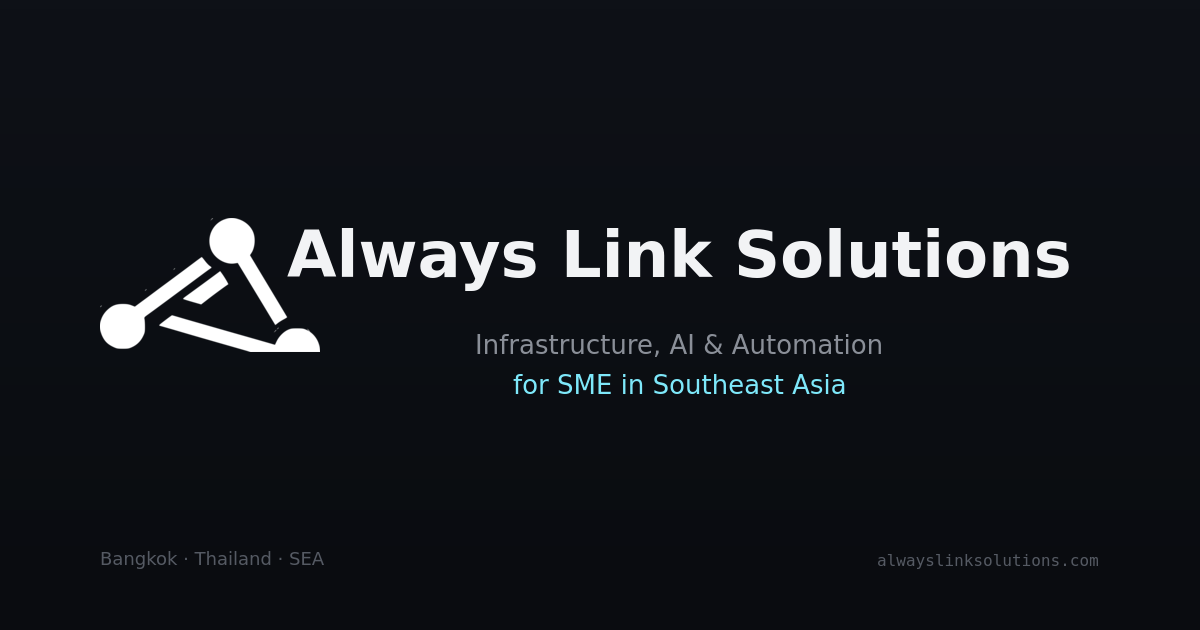
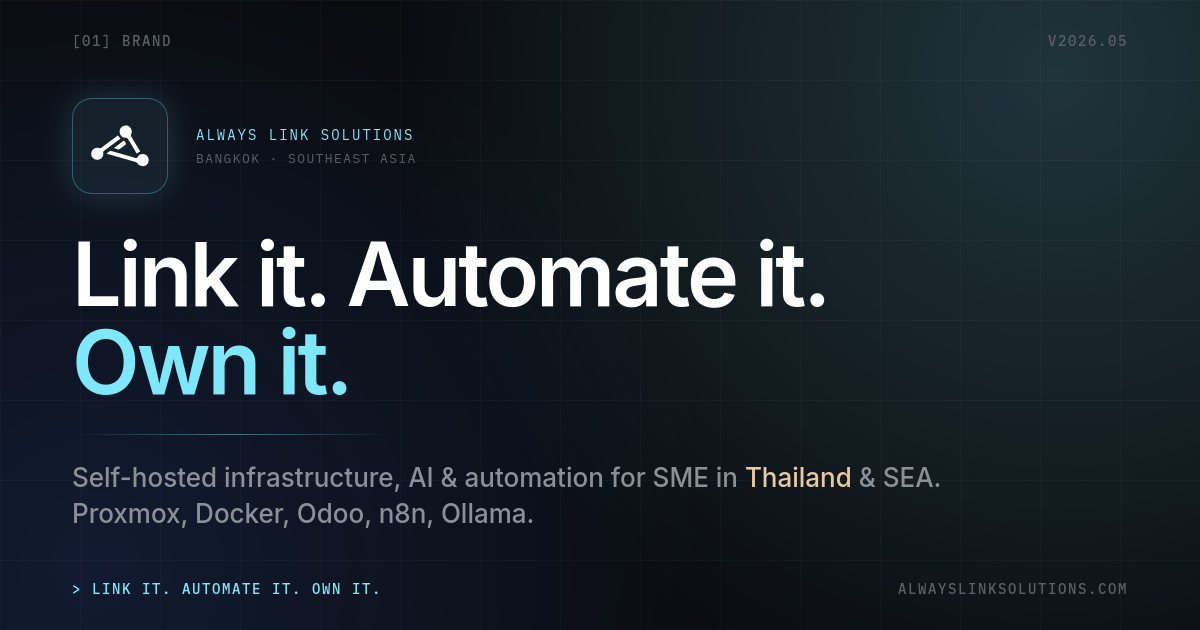
feat(landing): regenerate og-image.png with dark-glass brand kit
- og-template.html: 1200x630 source for the OG card. Renders the ALS
  brand mark in a cyan-glow glass tile, the "Link it. Automate it.
  Own it." headline (Inter 88px, cyan accent), and a one-line subtag
  with Thailand picked out in warm.
- og-image.png: regenerated from the template via headless Firefox.
  Replaces the previous generic preview.

Re-render with:
  firefox --headless --no-remote --profile $(mktemp -d) \
    --window-size=1200,630 --screenshot=og-image.png \
    http://127.0.0.1:PORT/og-template.html

Note: WhatsApp/Slack/Twitter cache OG images aggressively; new card
shows up after ~24h or via their own debugger tools.

diff --git a/web/landing/og-template.html b/web/landing/og-template.html
@@ -1,0 +1,135 @@
+<!DOCTYPE html>
+<html lang="en">
+<head>
+<meta charset="utf-8">
+<title>OG card</title>
+<link rel="preconnect" href="https://fonts.googleapis.com">
+<link rel="preconnect" href="https://fonts.gstatic.com" crossorigin>
+<link href="https://fonts.googleapis.com/css2?family=Inter:wght@500;600;700&family=IBM+Plex+Mono:wght@400;500&display=swap" rel="stylesheet">
+<style>
+* { margin: 0; padding: 0; box-sizing: border-box; }
+html, body { width: 1200px; height: 630px; overflow: hidden; background: #0A0C10; font-family: 'Inter', system-ui, sans-serif; color: #F2F3F5; }
+
+body {
+  background:
+    radial-gradient(circle at 88% 12%, rgba(126,232,250,0.18), transparent 55%),
+    radial-gradient(circle at 8% 90%, rgba(58,111,248,0.14), transparent 50%),
+    #0A0C10;
+  position: relative;
+  display: grid;
+  grid-template-rows: 1fr auto;
+  padding: 56px 72px;
+}
+
+/* faint grid */
+body::before {
+  content: '';
+  position: absolute;
+  inset: 0;
+  background-image:
+    linear-gradient(rgba(255,255,255,0.025) 1px, transparent 1px),
+    linear-gradient(90deg, rgba(255,255,255,0.025) 1px, transparent 1px);
+  background-size: 80px 80px;
+  pointer-events: none;
+}
+
+/* corner labels */
+.corner {
+  position: absolute;
+  font-family: 'IBM Plex Mono', ui-monospace, monospace;
+  font-size: 14px;
+  font-weight: 500;
+  letter-spacing: 1.6px;
+  text-transform: uppercase;
+  color: #5A6068;
+}
+.tl { top: 32px; left: 72px; }
+.tr { top: 32px; right: 72px; }
+.bl { bottom: 32px; left: 72px; color: #7EE8FA; }
+.br { bottom: 32px; right: 72px; }
+
+main {
+  display: flex;
+  flex-direction: column;
+  justify-content: center;
+  align-items: flex-start;
+  position: relative;
+  z-index: 1;
+}
+
+.brand-row {
+  display: flex;
+  align-items: center;
+  gap: 28px;
+  margin-bottom: 36px;
+}
+.brand-mark {
+  width: 96px;
+  height: 96px;
+  display: grid;
+  place-items: center;
+  border: 1px solid rgba(126,232,250,0.30);
+  border-radius: 20px;
+  background: rgba(126,232,250,0.08);
+  box-shadow: 0 0 32px rgba(126,232,250,0.18);
+}
+.brand-mark svg { width: 64px; height: 64px; }
+
+h1 {
+  font-size: 88px;
+  font-weight: 600;
+  line-height: 1.0;
+  letter-spacing: -3px;
+  color: #FFFFFF;
+  max-width: 980px;
+}
+h1 .accent { color: #7EE8FA; }
+
+.lead {
+  margin-top: 24px;
+  font-size: 26px;
+  line-height: 1.4;
+  color: #8A8F98;
+  max-width: 880px;
+  font-weight: 400;
+}
+.lead strong { color: #E8C9A0; font-weight: 500; }
+
+.divider {
+  height: 1px;
+  background: linear-gradient(90deg, transparent, rgba(126,232,250,0.45), transparent);
+  margin-top: 28px;
+  width: 320px;
+}
+</style>
+</head>
+<body>
+  <span class="corner tl">[01] BRAND</span>
+  <span class="corner tr">v2026.05</span>
+  <span class="corner bl">&gt; LINK IT. AUTOMATE IT. OWN IT.</span>
+  <span class="corner br">alwayslinksolutions.com</span>
+
+  <main>
+    <div class="brand-row">
+      <div class="brand-mark">
+        <svg viewBox="373 155.89 282.04 204.99" xmlns="http://www.w3.org/2000/svg">
+          <path fill="#FFFFFF" d="M596.174805,340.900635C594.867676,339.580017 593.393188,338.665741 592.886963,337.372467C590.401367,331.022552 584.793518,329.791321 579.124268,328.180603C540.537109,317.217651 501.983887,306.134949 463.436951,295.031219C460.612183,294.217529 457.601532,293.699280 454.331360,291.193451C459.523132,287.070953 464.203094,282.988556 469.666901,279.954224C471.326874,279.032349 473.255341,280.129242 475.001068,280.627869C509.416077,290.457581 543.827087,300.301453 578.237366,310.147827C579.837646,310.605804 581.470398,310.998962 583.006653,311.622772C586.447571,313.019958 588.147949,311.945831 589.882751,308.538971C597.340149,293.893982 615.012085,289.348236 628.746765,298.202515C641.659119,306.526672 644.593567,324.855225 635.018005,337.372314C626.279236,348.795563 609.538025,350.427795 596.174805,340.900635z"/>
+          <path fill="#FFFFFF" d="M402.378662,316.922302C388.447235,309.404358 383.443756,295.293488 389.572784,281.627991C395.360077,268.724426 410.069702,262.781921 423.984344,268.035461C426.733673,269.073486 428.465820,268.748199 430.713135,267.075073C453.809448,249.879364 476.984222,232.788971 500.143524,215.677917C501.467224,214.699936 502.846954,213.797775 504.593628,212.588150C508.389496,216.937149 511.451385,221.700424 516.300293,224.898438C513.871704,228.566956 510.521332,230.196304 507.647125,232.329468C486.000305,248.394989 464.330414,264.429657 442.608551,280.393402C440.207367,282.158081 439.372559,283.752289 439.939728,286.987091C441.750549,297.314911 439.405365,306.712891 430.952789,313.511932C422.438721,320.360382 412.802795,321.145264 402.378662,316.922302z"/>
+          <path fill="#FFFFFF" d="M552.657043,233.281006C551.611572,231.541992 550.674377,230.157303 549.896912,228.688080C547.396484,223.962662 544.927979,221.091415 538.149597,221.620697C526.693604,222.515213 515.962524,212.940720 513.069824,201.679306C510.253052,190.713211 514.865112,178.685638 524.152771,172.776764C534.280029,166.333771 547.855835,167.189087 556.759949,174.831131C565.609436,182.426285 568.895935,195.097443 563.700562,205.644852C561.261902,210.595886 561.907471,213.992294 564.595337,218.352951C576.649902,237.910049 588.404419,257.652283 600.228394,277.351013C601.232239,279.023529 602.648743,280.542450 602.815430,283.156097C598.747498,285.595703 594.123535,287.500183 590.301270,290.744446C588.161194,292.560913 587.168945,290.243408 586.233337,288.698547C576.660339,272.891266 567.093262,257.080444 557.521179,241.272614C555.968750,238.708817 554.399841,236.155029 552.657043,233.281006z"/>
+          <path fill="#FFFFFF" d="M528.543457,236.591400C530.333923,235.264267 531.790833,234.794861 533.125488,236.632553C533.419128,237.036896 533.729370,237.429199 534.031738,237.827240C542.860535,249.452759 542.843750,249.430389 531.329346,258.063263C525.200195,262.658478 519.099426,267.293793 513.071411,272.020203C510.768402,273.825958 508.571625,274.403351 505.711731,273.301178C500.042084,271.116241 493.843658,270.412750 487.104187,267.005768C501.351501,256.540833 514.799744,246.662811 528.543457,236.591400z"/>
+        </svg>
+      </div>
+      <div>
+        <div style="font-family:'IBM Plex Mono', monospace; font-size:14px; letter-spacing:2px; color:#7EE8FA; margin-bottom:6px;">ALWAYS LINK SOLUTIONS</div>
+        <div style="font-family:'IBM Plex Mono', monospace; font-size:13px; letter-spacing:1.4px; color:#5A6068;">BANGKOK · SOUTHEAST ASIA</div>
+      </div>
+    </div>
+
+    <h1>Link it. Automate&nbsp;it.<br><span class="accent">Own it.</span></h1>
+
+    <div class="divider"></div>
+
+    <p class="lead">Self-hosted infrastructure, AI &amp; automation for SME in&nbsp;<strong>Thailand</strong> &amp; SEA. Proxmox, Docker, Odoo, n8n, Ollama.</p>
+  </main>
+</body>
+</html>